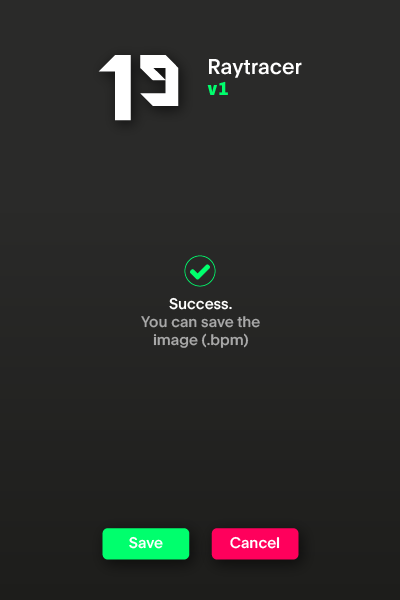
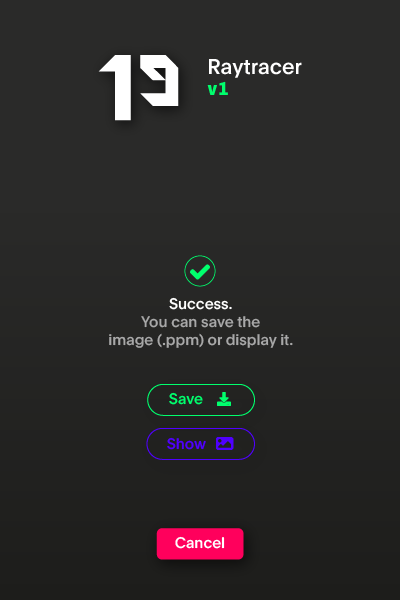
Update GUI with last images

diff --git a/src/graphic/gui.c b/src/graphic/gui.c
@@ -6,7 +6,7 @@
 /*   By: mcabrol <mcabrol@student.42.fr>            +#+  +:+       +#+        */
 /*                                                +#+#+#+#+#+   +#+           */
 /*   Created: 2020/01/31 17:28:42 by mcabrol           #+#    #+#             */
-/*   Updated: 2020/02/26 19:21:49 by mcabrol          ###   ########.fr       */
+/*   Updated: 2020/02/28 16:29:43 by mcabrol          ###   ########.fr       */
 /*                                                                            */
 /* ************************************************************************** */
 
@@ -21,7 +21,10 @@ t_png 		init_png(void *mlx_ptr)
 	png.background = mlx_png_file_to_image(mlx_ptr, "img/background.png", &width, &height);
 	png.success = mlx_png_file_to_image(mlx_ptr, "img/success.png", &width, &height);
 	png.failure = mlx_png_file_to_image(mlx_ptr, "img/failure.png", &width, &height);
-	png.shadow = mlx_png_file_to_image(mlx_ptr, "img/shadow.png", &width, &height);
+	png.render = mlx_png_file_to_image(mlx_ptr, "img/render.png", &width, &height);
+	png.cancel = mlx_png_file_to_image(mlx_ptr, "img/cancel.png", &width, &height);
+	png.save = mlx_png_file_to_image(mlx_ptr, "img/save.png", &width, &height);
+	png.show = mlx_png_file_to_image(mlx_ptr, "img/show.png", &width, &height);
 	png.f480 = mlx_png_file_to_image(mlx_ptr, "img/480p.png", &width, &height);
 	png.f720 = mlx_png_file_to_image(mlx_ptr, "img/720p.png", &width, &height);
 	png.f1080 = mlx_png_file_to_image(mlx_ptr, "img/1080p.png", &width, &height);
@@ -35,23 +38,36 @@ t_png 		init_png(void *mlx_ptr)
 
 void 		put_setup(t_rtv1 *rtv1)
 {
-	mlx_put_image_to_window(rtv1->mlx_ptr, rtv1->main.win_ptr, rtv1->png.background, 0, 0);
-	if (rtv1->scene.width == 640 && rtv1->scene.height == 480)
-		mlx_put_image_to_window(rtv1->mlx_ptr, rtv1->main.win_ptr, rtv1->png.f480, 0, 0);
-	else if (rtv1->scene.width == 1280 && rtv1->scene.height == 720)
-		mlx_put_image_to_window(rtv1->mlx_ptr, rtv1->main.win_ptr, rtv1->png.f720, 0, 0);
-	else if (rtv1->scene.width == 1920 && rtv1->scene.height == 1080)
-		mlx_put_image_to_window(rtv1->mlx_ptr, rtv1->main.win_ptr, rtv1->png.f1080, 0, 0);
-	if (rtv1->scene.samples == 8)
-		mlx_put_image_to_window(rtv1->mlx_ptr, rtv1->main.win_ptr, rtv1->png.s8, 0, 0);
-	else if (rtv1->scene.samples == 40)
-		mlx_put_image_to_window(rtv1->mlx_ptr, rtv1->main.win_ptr, rtv1->png.s40, 0, 0);
-	else if (rtv1->scene.samples == 200)
-		mlx_put_image_to_window(rtv1->mlx_ptr, rtv1->main.win_ptr, rtv1->png.s200, 0, 0);
-	else if (rtv1->scene.samples == 500)
-		mlx_put_image_to_window(rtv1->mlx_ptr, rtv1->main.win_ptr, rtv1->png.s500, 0, 0);
-	else if (rtv1->scene.samples == 1000)
-		mlx_put_image_to_window(rtv1->mlx_ptr, rtv1->main.win_ptr, rtv1->png.s1000, 0, 0);
-	if (rtv1->png.hover == TRUE)
-		mlx_put_image_to_window(rtv1->mlx_ptr, rtv1->main.win_ptr, rtv1->png.shadow, 0, 0);
+	if (rtv1->state == SETUP)
+	{
+		mlx_put_image_to_window(rtv1->mlx_ptr, rtv1->main.win_ptr, rtv1->png.background, 0, 0);
+		if (rtv1->scene.width == 640 && rtv1->scene.height == 480)
+			mlx_put_image_to_window(rtv1->mlx_ptr, rtv1->main.win_ptr, rtv1->png.f480, 0, 0);
+		else if (rtv1->scene.width == 1280 && rtv1->scene.height == 720)
+			mlx_put_image_to_window(rtv1->mlx_ptr, rtv1->main.win_ptr, rtv1->png.f720, 0, 0);
+		else if (rtv1->scene.width == 1920 && rtv1->scene.height == 1080)
+			mlx_put_image_to_window(rtv1->mlx_ptr, rtv1->main.win_ptr, rtv1->png.f1080, 0, 0);
+		if (rtv1->scene.samples == 8)
+			mlx_put_image_to_window(rtv1->mlx_ptr, rtv1->main.win_ptr, rtv1->png.s8, 0, 0);
+		else if (rtv1->scene.samples == 40)
+			mlx_put_image_to_window(rtv1->mlx_ptr, rtv1->main.win_ptr, rtv1->png.s40, 0, 0);
+		else if (rtv1->scene.samples == 200)
+			mlx_put_image_to_window(rtv1->mlx_ptr, rtv1->main.win_ptr, rtv1->png.s200, 0, 0);
+		else if (rtv1->scene.samples == 500)
+			mlx_put_image_to_window(rtv1->mlx_ptr, rtv1->main.win_ptr, rtv1->png.s500, 0, 0);
+		else if (rtv1->scene.samples == 1000)
+			mlx_put_image_to_window(rtv1->mlx_ptr, rtv1->main.win_ptr, rtv1->png.s1000, 0, 0);
+		if (rtv1->png.h_render == TRUE)
+			mlx_put_image_to_window(rtv1->mlx_ptr, rtv1->main.win_ptr, rtv1->png.render, 0, 0);
+	}
+	else
+	{
+		mlx_put_image_to_window(rtv1->mlx_ptr, rtv1->main.win_ptr, rtv1->png.success, 0, 0);
+		if (rtv1->png.h_cancel == TRUE)
+			mlx_put_image_to_window(rtv1->mlx_ptr, rtv1->main.win_ptr, rtv1->png.cancel, 0, 0);
+		if (rtv1->png.h_save == TRUE)
+			mlx_put_image_to_window(rtv1->mlx_ptr, rtv1->main.win_ptr, rtv1->png.save, 0, 0);
+		if (rtv1->png.h_show == TRUE)
+			mlx_put_image_to_window(rtv1->mlx_ptr, rtv1->main.win_ptr, rtv1->png.show, 0, 0);
+	}
 }

diff --git a/src/graphic/hook.c b/src/graphic/hook.c
@@ -6,7 +6,7 @@
 /*   By: mcabrol <mcabrol@student.42.fr>            +#+  +:+       +#+        */
 /*                                                +#+#+#+#+#+   +#+           */
 /*   Created: 2020/01/10 18:43:37 by mcabrol           #+#    #+#             */
-/*   Updated: 2020/02/26 18:51:38 by mcabrol          ###   ########.fr       */
+/*   Updated: 2020/02/28 16:34:51 by mcabrol          ###   ########.fr       */
 /*                                                                            */
 /* ************************************************************************** */
 
@@ -44,12 +44,24 @@ int 	hover(int x, int y, t_rtv1 *rtv1)
 
 	if (rtv1->state == SETUP)
 	{
-		state = rtv1->png.hover;
-		if (x > 156 && x < 243 && y > 527 && y < 558)
-			rtv1->png.hover = TRUE;
-		else
-			rtv1->png.hover = FALSE;
-		if (state != rtv1->png.hover)
+		state = rtv1->png.h_render;
+		rtv1->png.h_render = (x > 156 && x < 243 && y > 527 && y < 558) ? TRUE : FALSE;
+		if (state != rtv1->png.h_render)
+			put_setup(rtv1);
+	}
+	if (rtv1->state == RENDER)
+	{
+		state = rtv1->png.h_cancel;
+		rtv1->png.h_cancel = (x > 156 && x < 243 && y > 527 && y < 558) ? TRUE : FALSE;
+		if (state != rtv1->png.h_cancel)
+			put_setup(rtv1);
+		state = rtv1->png.h_show;
+		rtv1->png.h_show = (x > 148 && x < 254 && y > 429 && y < 459) ? TRUE : FALSE;
+		if (state != rtv1->png.h_show)
+			put_setup(rtv1);
+			state = rtv1->png.h_save;
+		rtv1->png.h_save = (x > 148 && x < 254 && y > 383 && y < 415) ? TRUE : FALSE;
+		if (state != rtv1->png.h_save)
 			put_setup(rtv1);
 	}
 	return (EXIT_SUCCESS);

diff --git a/inc/struct.h b/inc/struct.h
@@ -3,10 +3,10 @@
 /*                                                        :::      ::::::::   */
 /*   struct.h                                           :+:      :+:    :+:   */
 /*                                                    +:+ +:+         +:+     */
-/*   By: mcabrol <mcabrol@student.s19.be>           +#+  +:+       +#+        */
+/*   By: mcabrol <mcabrol@student.42.fr>            +#+  +:+       +#+        */
 /*                                                +#+#+#+#+#+   +#+           */
 /*   Created: 2020/01/17 21:21:04 by mcabrol           #+#    #+#             */
-/*   Updated: 2020/02/27 13:54:34 by judrion          ###   ########.fr       */
+/*   Updated: 2020/02/28 16:30:13 by mcabrol          ###   ########.fr       */
 /*                                                                            */
 /* ************************************************************************** */
 
@@ -119,11 +119,17 @@ typedef struct			s_win
 
 typedef struct 			s_png
 {
-	int 				hover;
+	int 				h_render;
+	int 				h_cancel;
+	int 				h_save;
+	int 				h_show;
 	void 				*background;
 	void 				*success;
 	void 				*failure;
-	void 				*shadow;
+	void 				*render;
+	void 				*cancel;
+	void 				*save;
+	void 				*show;
 	void 				*f480;
 	void 				*f720;
 	void 				*f1080;

diff --git a/src/graphic/mouse.c b/src/graphic/mouse.c
@@ -6,7 +6,7 @@
 /*   By: mcabrol <mcabrol@student.42.fr>            +#+  +:+       +#+        */
 /*                                                +#+#+#+#+#+   +#+           */
 /*   Created: 2020/01/10 18:43:37 by mcabrol           #+#    #+#             */
-/*   Updated: 2020/02/26 18:47:20 by mcabrol          ###   ########.fr       */
+/*   Updated: 2020/02/28 16:02:26 by mcabrol          ###   ########.fr       */
 /*                                                                            */
 /* ************************************************************************** */
 
@@ -52,11 +52,17 @@ int		mouse(int button, int x, int y, t_rtv1 *rtv1)
 	}
 	if (rtv1->state == RENDER)
 	{
-		if (button == 1 && x > 102 && x < 189 && y > 528 && y < 569)
+		if (button == 1 && x > 148 && x < 254 && y > 383 && y < 415)
 		{
 			write_ppm(rtv1);
 		}
-		if (button == 1 && x > 211 && x < 298 && y > 528 && y < 569)
+		else if (button == 1 && x > 148 && x < 254 && y > 429 && y < 459)
+		{
+			rtv1->image[rtv1->id] = window(rtv1->mlx_ptr, rtv1->scene.width, rtv1->scene.height, "Image");
+			image(rtv1);
+			(rtv1->id++);
+		}
+		else if (button == 1 && x > 156 && x < 243 && y > 527 && y < 558)
 		{
 			rtv1->state = SETUP;
 			put_setup(rtv1);

diff --git a/src/main.c b/src/main.c
@@ -6,7 +6,7 @@
 /*   By: mcabrol <mcabrol@student.42.fr>            +#+  +:+       +#+        */
 /*                                                +#+#+#+#+#+   +#+           */
 /*   Created: 2020/01/17 20:59:15 by mcabrol           #+#    #+#             */
-/*   Updated: 2020/02/26 18:52:28 by mcabrol          ###   ########.fr       */
+/*   Updated: 2020/02/28 16:31:27 by mcabrol          ###   ########.fr       */
 /*                                                                            */
 /* ************************************************************************** */
 
@@ -33,7 +33,10 @@ int		main(int ac, char **av)
 	rtv1.main = window(rtv1.mlx_ptr, W_MAIN, H_MAIN, "Raytracer");
 	rtv1.png = init_png(rtv1.mlx_ptr);
 	rtv1.state = SETUP;
-	rtv1.png.hover = FALSE;
+	rtv1.png.h_render = FALSE;
+	rtv1.png.h_cancel = FALSE;
+	rtv1.png.h_save = FALSE;
+	rtv1.png.h_show = FALSE;
 	rtv1.id = 0;
 	put_setup(&rtv1);
 	hook(&rtv1);
